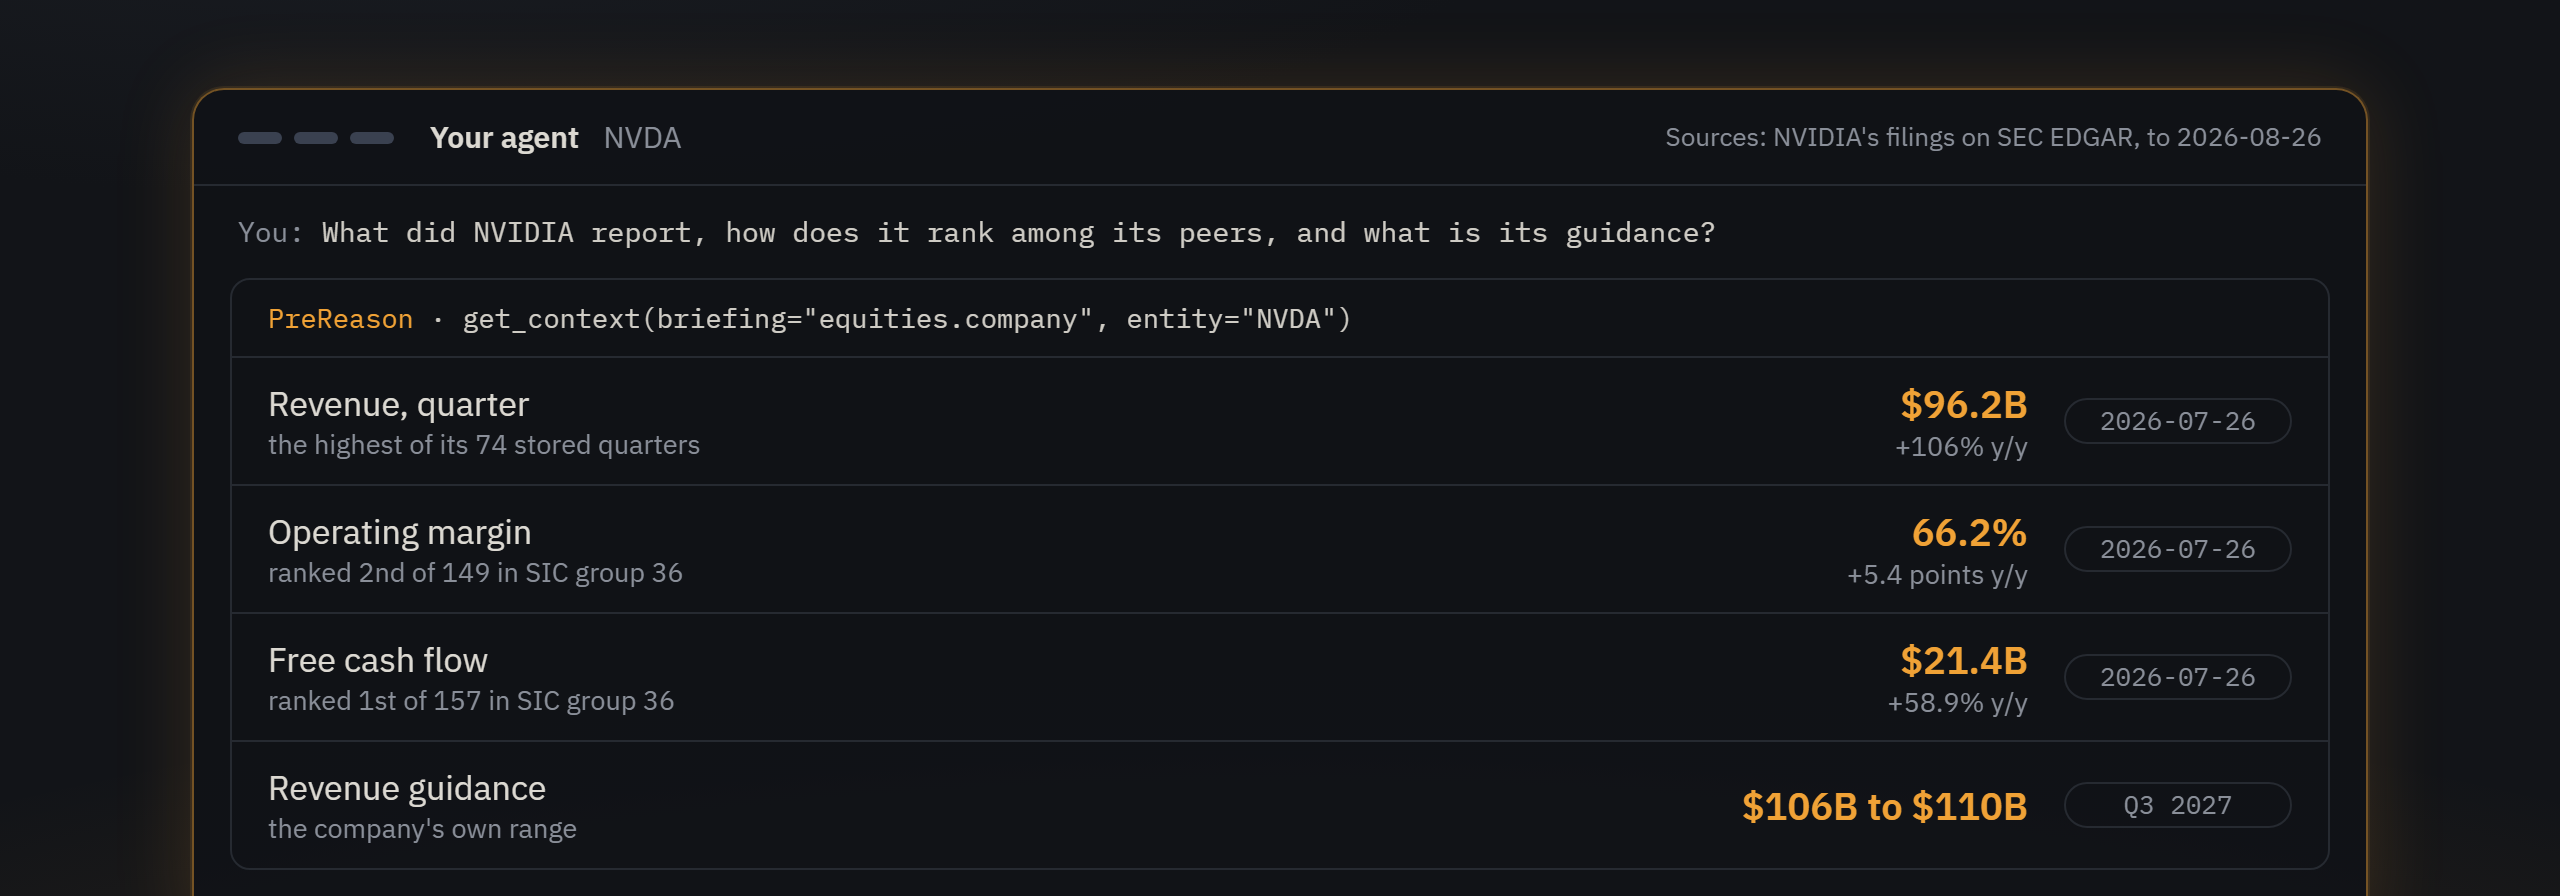
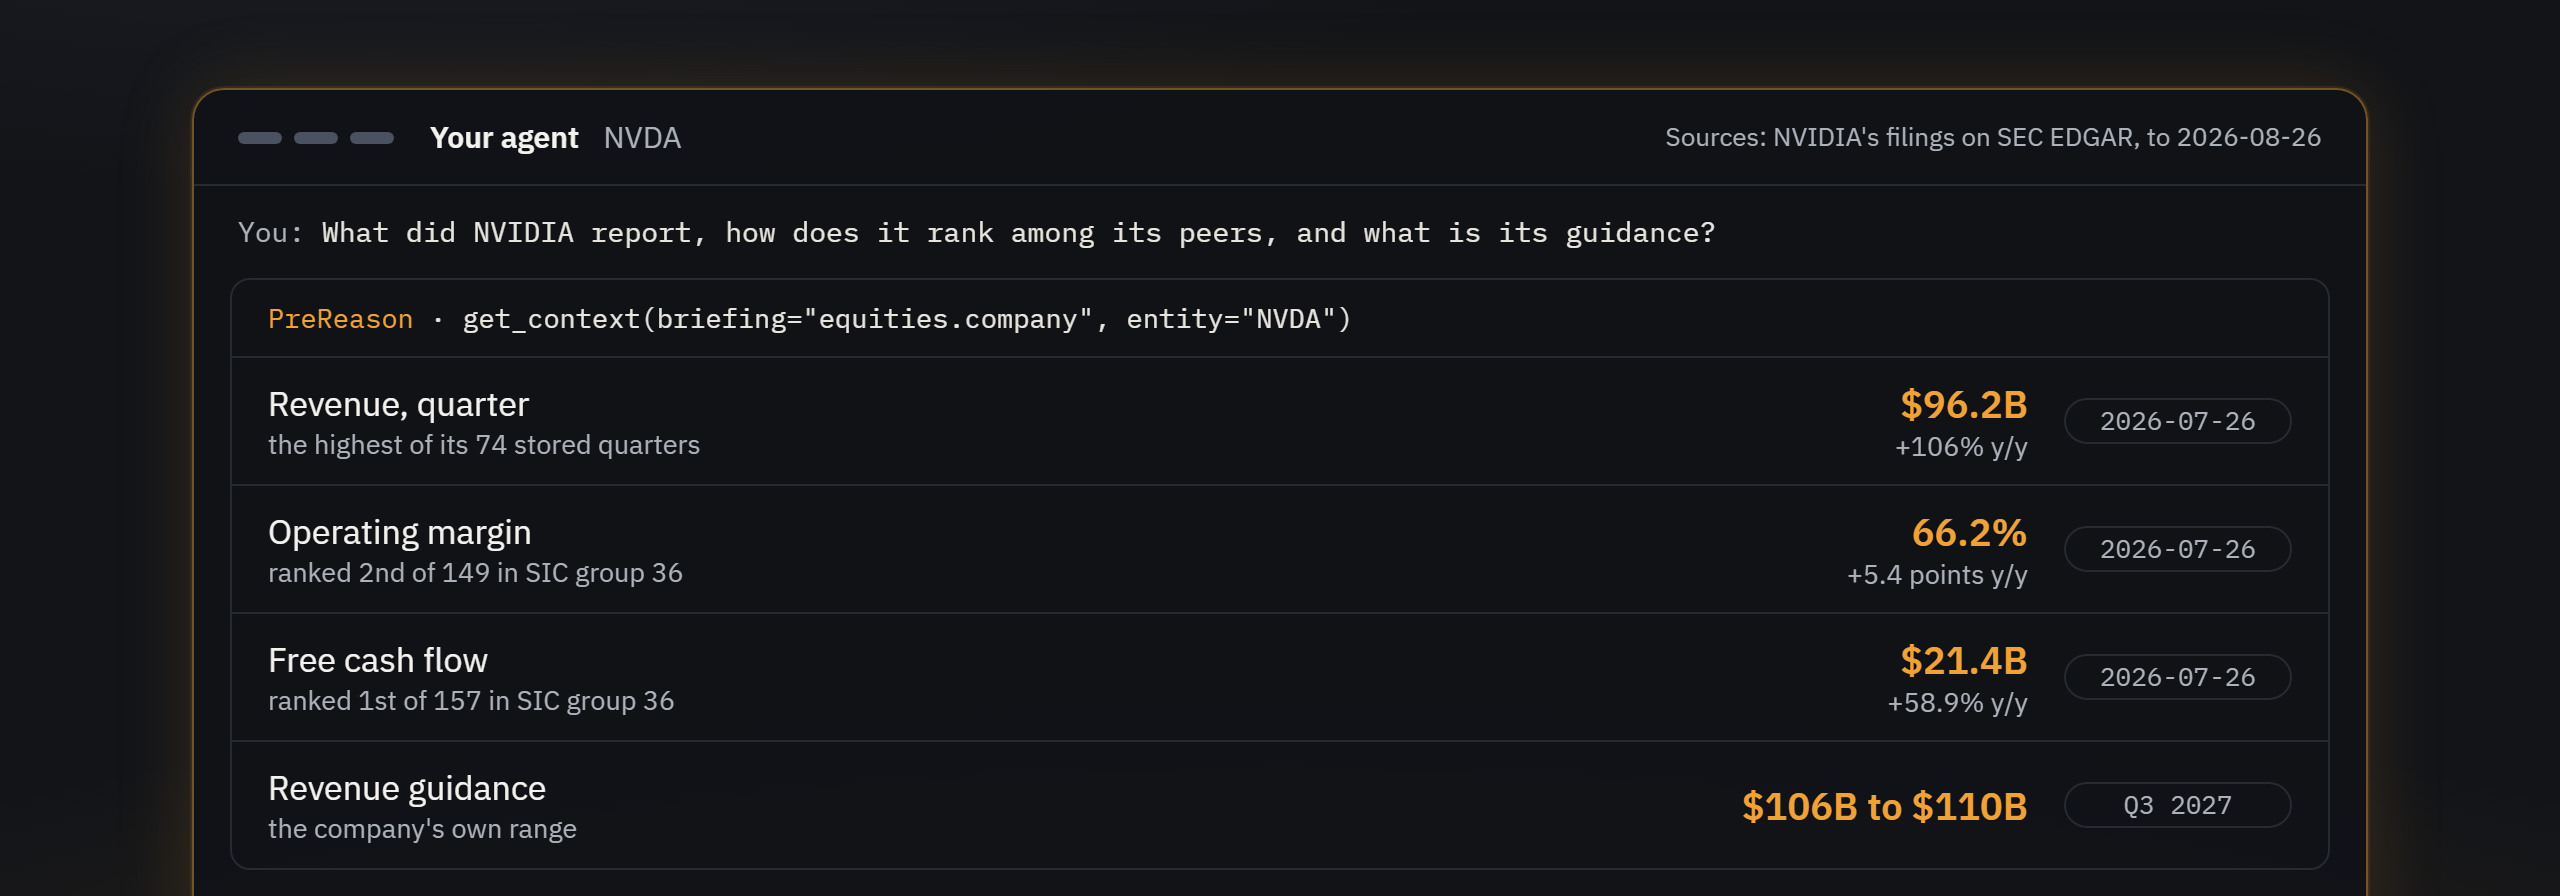
0.5.7: the README's pictures carry brighter text at every level

diff --git a/bin/cli.js b/bin/cli.js
@@ -35,7 +35,7 @@ import { failureResponse } from '../lib/jsonrpc.js';
 
 // Keep in sync with package.json on each release
 const PKG_NAME = '@prereason/mcp';
-const PKG_VERSION = '0.5.6';
+const PKG_VERSION = '0.5.7';
 const DEFAULT_URL = 'https://api.prereason.com/api/mcp';
 const USER_AGENT = `prereason-mcp/${PKG_VERSION} node/${process.versions.node} (${platform()})`;
 

diff --git a/CHANGELOG.md b/CHANGELOG.md
@@ -1,5 +1,11 @@
 # Changelog
 
+## 0.5.7 (2026-10-08)
+
+### Changed
+- The text in the README's four pictures is a step brighter at every level (headings near white, the small grey lines lifted most), so it reads at the size GitHub and npm show the pictures.
+- `server.json` registry version 0.8.2, npm package 0.5.7.
+
 ## 0.5.6 (2026-10-08)
 
 ### Changed
